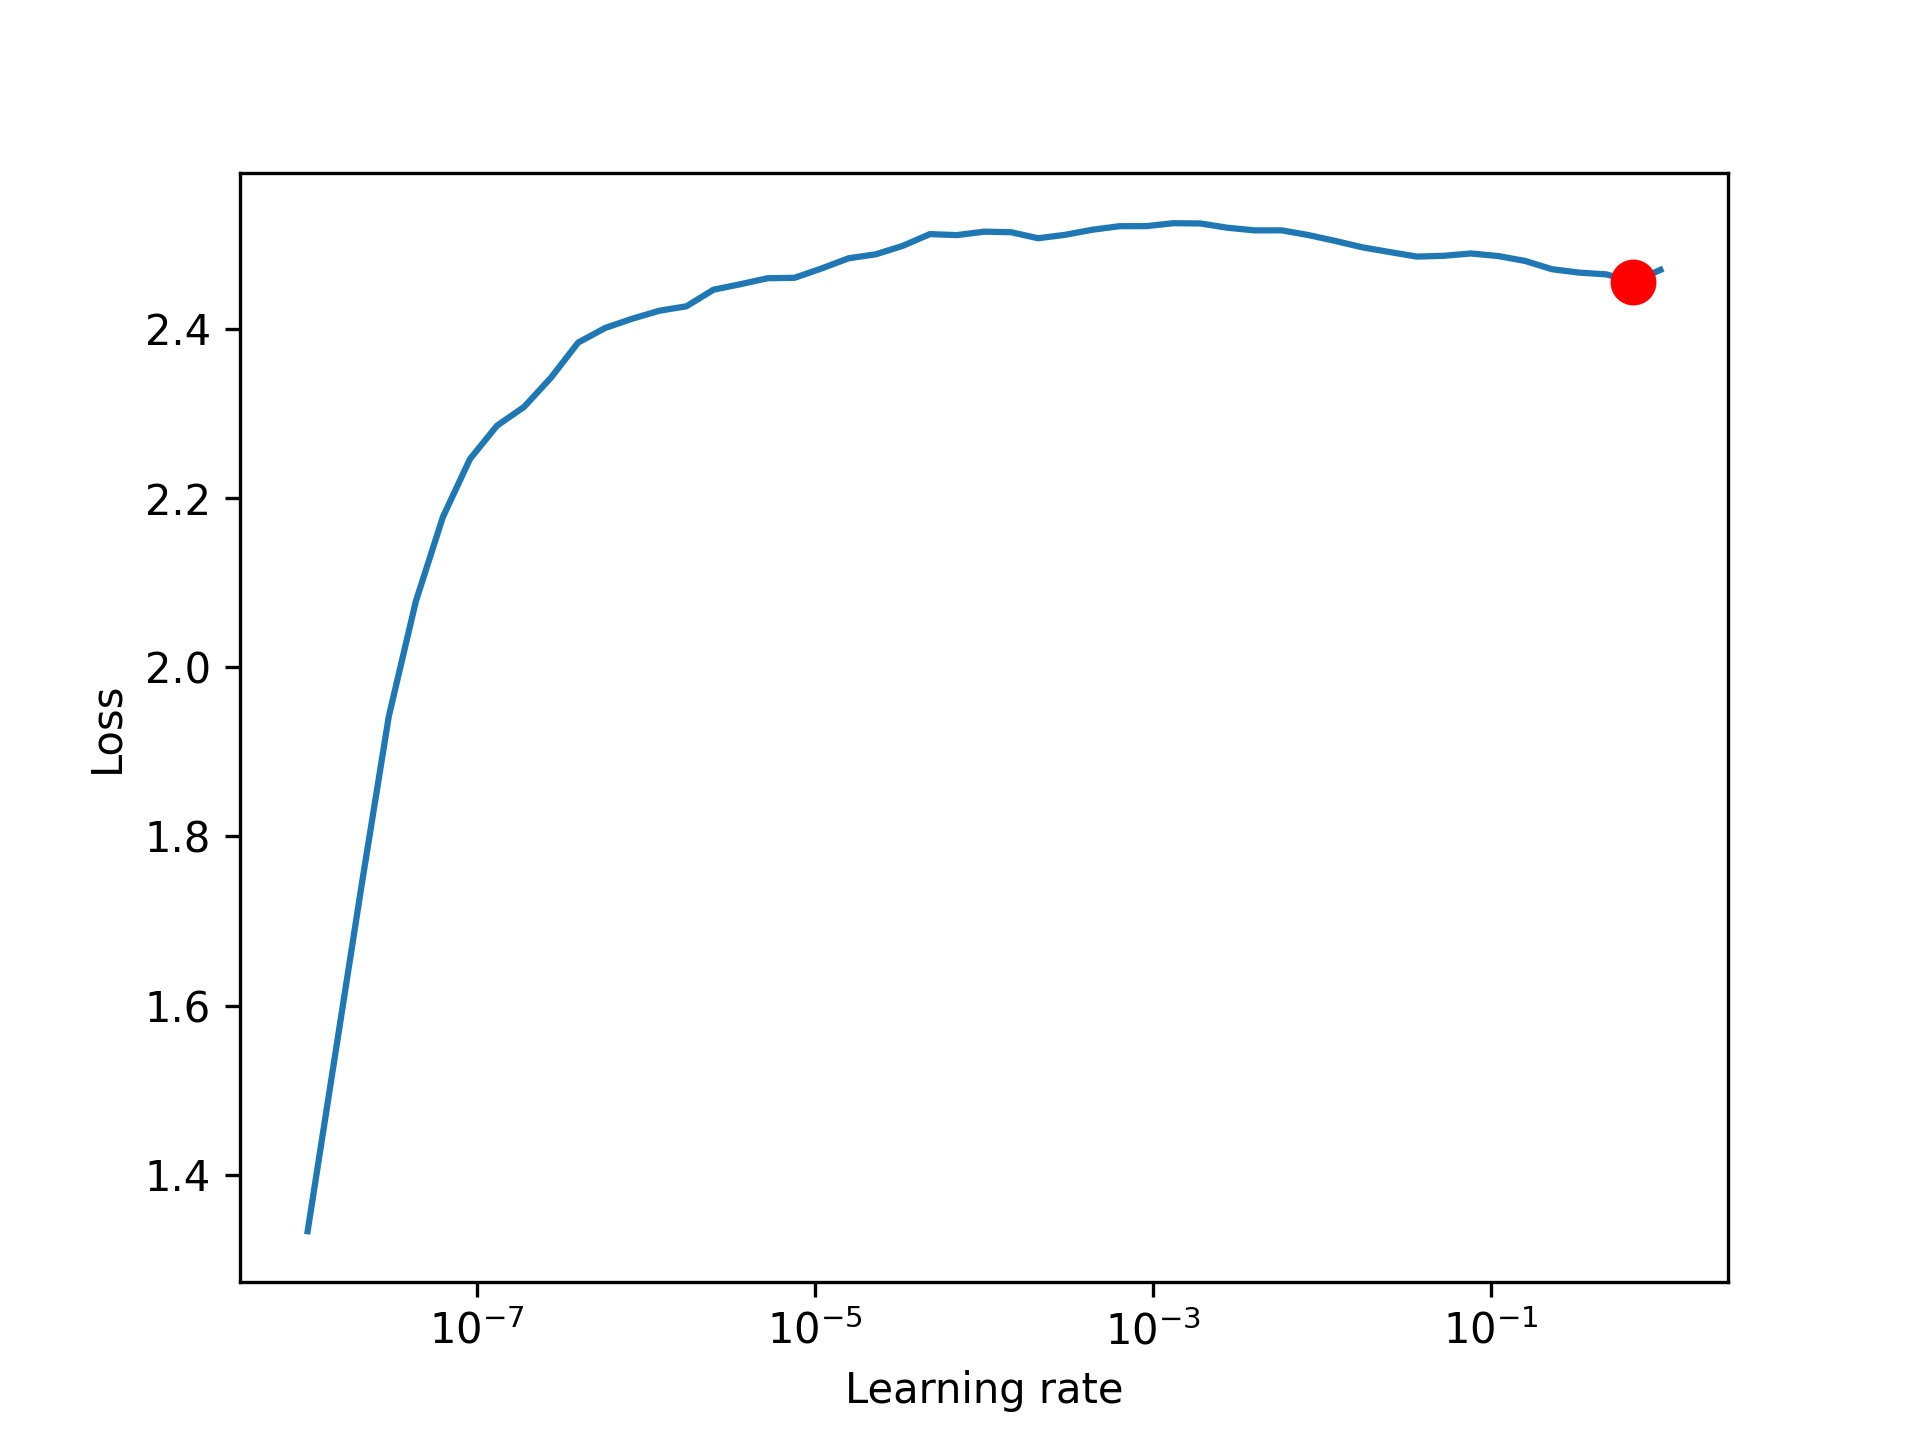
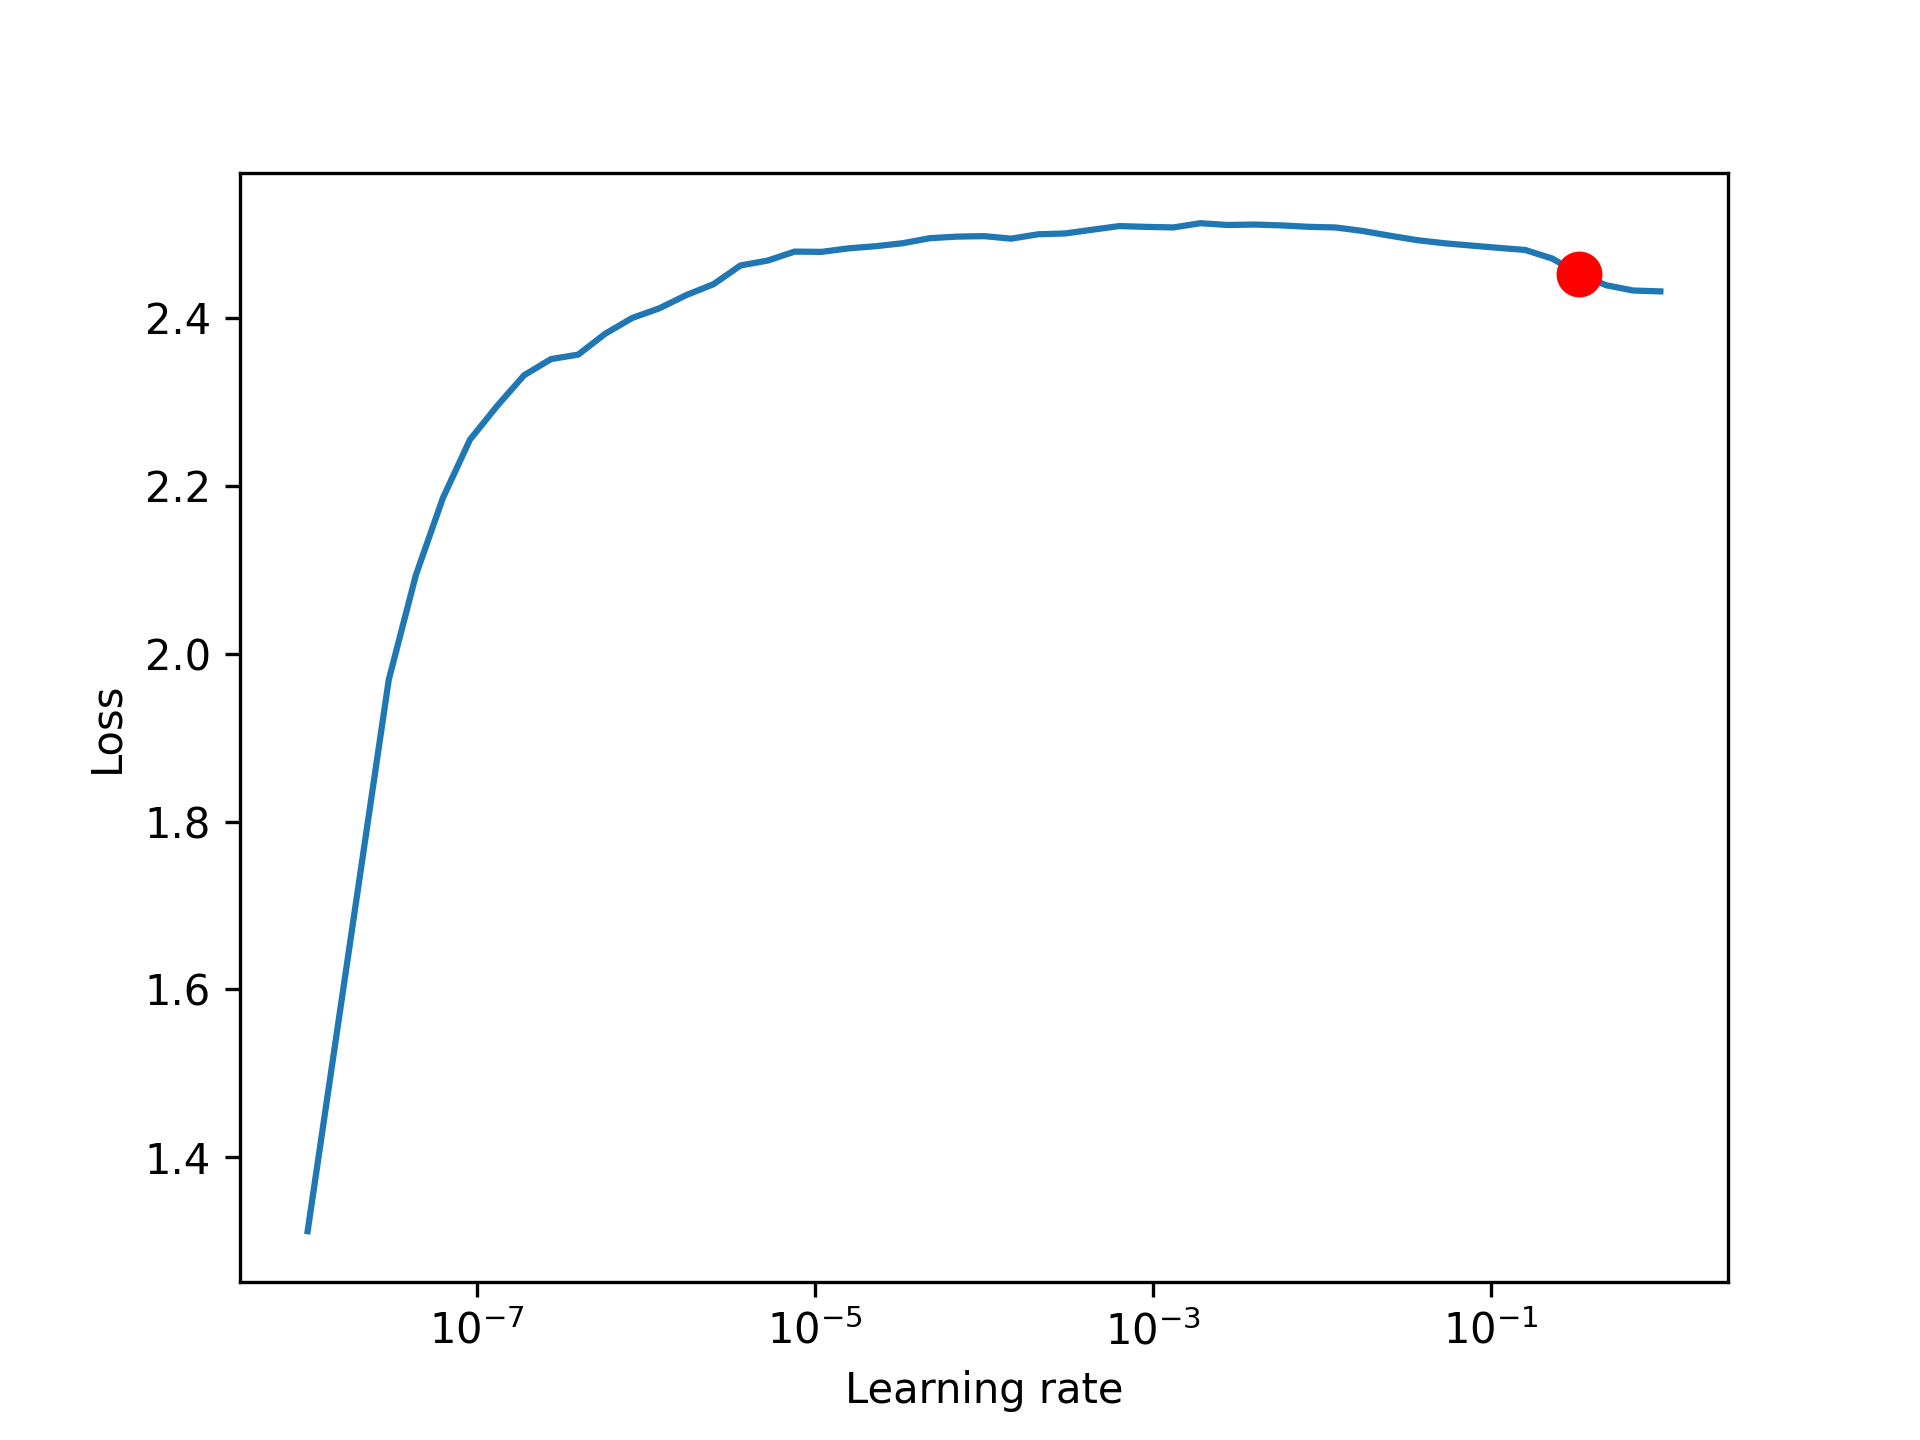
jiangwx finish slides

diff --git a/predict.py b/predict.py
@@ -2,20 +2,9 @@ from train import *
 
 parser = ArgumentParser()
 parser.add_argument('--dataset', default='cifar10', type=str, help='dataset')
-parser.add_argument('--model', default='/save_models/cifar10_resnet18best.pth', type=str, help='model weight file')
+parser.add_argument('--model', default='./save_models/epoch=31-step=8976.ckpt', type=str, help='model weight file')
 
 args = parser.parse_args()
-
-model = LitResnet()
-model.load_from_checkpoint(args.model)
-model.eval()
-
-trainer.test(model, dataloaders=cifar10_dm.test_dataloader())
-
-metrics = pd.read_csv(f"{trainer.logger.log_dir}/metrics.csv")
-del metrics["step"]
-metrics.set_index("epoch", inplace=True)
-display(metrics.dropna(axis=1, how="all").head())
-sns.relplot(data=metrics, kind="line")
+trainer.test(ckpt_path=args.model)
 
 print('Done')

diff --git a/slideshow/jiangwx.md b/slideshow/jiangwx.md
@@ -6,7 +6,6 @@ Jiang Wenxin
 <!-- ## PyTorch to PyTorch Lightning -->
 ![PyTorch to PyTorch Lightning](../img/pt_to_pl.png)
 
---------------------
 ```python
 callbacks = [
     ModelCheckpoint(monitor="val_acc", mode="max"),
@@ -22,7 +21,7 @@ trainer = Trainer(
 )
 ```
 --------------------
-##  Overview and Basics
+##  Datasets and models
 What we need know about training a model:
 * Dataset: [CIFAR-10](https://www.cs.toronto.edu/~kriz/cifar.html)
 * Model: ResNet18 or ResNet34 [TorchVision.Models](https://pytorch.org/vision/0.8/models.html)
@@ -33,15 +32,15 @@ What we need know about training a model:
 [^2]: Adam is one of the most popular optimizers in deep learning.
 
 --------------------
-## Transforms: Data Augmentation
+### Transforms: Data Augmentation
 Tools: random crop, random flip, random rotation, etc.
 Benefits of data augmentation:
-* Increase the size of the dataset -> Reduce <mark>overfitting</mark>
-* Improve generalization -> Improve the performance of the model
+* Increase the size of the dataset -> Reduce **overfitting**
+* Improve **generalization** -> Improve the performance of the model
 ![data_aug](../img/data_augmentation.png)
 
 --------------------
-## Transforms: Data Normalization and Resizing
+### Transforms: Data Normalization and Resizing
 Tools: Normalize, Resize, etc.
 Why data normalization?
 * Easier to converge
@@ -54,11 +53,28 @@ Why data resizing?
 [^3]: But we choose to change the input size of our model.
 
 --------------------
-## Before Training:
+### Transfer Learning
+* Use the pretrained model to initialize the weights of the model
+```python
+model = torchvision.models.resnet18(pretrained=True)
+```
+Useful when dataset is small.
+
+--------------------
+### Replicability and Determinism
+```python
+# for hardware
+torch.backends.cudnn.deterministic = True
+torch.backends.cudnn.benchmark = False
+# for numpy/pytorch package
+seed_everything(42)
+```
 ### Tricks: Learning Rate Finder
+But it sometimes doesn't work well. In our case:
 Not to pick the lowest loss, but in the middle of the sharpest downward slope (red point).
 ![FindLR](../img/pl_lr_finder.png)
 <!-- It determines a range of learning rates by gradually increasing the learning rate during training and observing the change in the loss function, thus helping us to better select the learning rate to improve the training effect and convergence speed of the model. -->
+
 
 --------------------
 ## [Effective Training Techniques](https://lightning.ai/docs/pytorch/stable/advanced/training_tricks.html)
@@ -77,9 +93,9 @@ trainer = Trainer(
 )
 ```
 --------------------
-- Manage Experiment: [WandB](https://wandb.ai/site)
-Weights and Biases
-<!-- todo add img -->
+- Early Stopping:
+Stop at the best epoch, not the last epoch.
+Avoid over-fitting.
 
 --------------------
 - Accumulate Gradients: 
@@ -90,29 +106,27 @@ Control batch size, improve the stability and generalisation of the model
 
 --------------------
 - Gradient Clipping: 
-Gradient clipping can be enabled to avoid exploding gradients. 
+Gradient clipping can be enabled to **avoid exploding gradients**. 
 
---------------------
 - Stochastic Weight Averaging: 
-Stochastic Weight Averaging (SWA) can make your models generalize better at virtually no additional cost. This can be used with both non-trained and trained models. The SWA procedure smooths the loss landscape thus making it harder to end up in a local minimum during optimization.
-<!-- 它可以帮助模型更好地泛化，同时不需要额外的训练成本。SWA 适用于非常大的模型和数据集，可以有效的避免模型陷入局部最小值，提高模型的泛化能力。
-
-具体来说，SWA 技术通过计算多个不同时间点的模型权重的平均值，来获得一个平均权重，从而获得一个更加平滑的损失函数，并提高模型的泛化能力。在训练过程中，SWA 技术会周期性地计算模型权重的平均值，并将这个平均权重用于后续的预测。
-
-SWA 技术的优点在于，它不需要增加额外的训练成本，因为权重平均可以在训练结束后进行计算，而不需要对模型进行重新训练。此外，SWA 技术可以有效地平滑损失函数，从而减少模型陷入局部最小值的风险，提高模型的泛化能力。 -->
-
-<!-- 需要注意的是，SWA 技术需要在训练结束后进行计算，因此可能需要一定的额外计算时间。同时，SWA 技术对于一些特定的模型和数据集可能效果并不明显。因此，在使用 SWA 技术时，需要根据具体的情况进行调整和优化。 -->
+Smooths the loss landscape thus making it harder to end up in a local minimum during optimization. Improves generalization.
 
 --------------------
+- Manage Experiment: Weights and Biases: [WandB](https://wandb.ai/site)
 
+Before training:
+![WandB_login](../img/wandb_login.png)
+After training:
+![WandB_summary](../img/wandb_summary.png)
+Dashboard:
+![WandB_dashboard](../img/wandb_dashboard.png)
+Or more commonly used: TensorBoard
 
+--------------------
 ## Results
-<!-- todo img -->
-
-
-
---------------------
-
+![train_loss](../img/cifar10train_loss.png)
+![val_loss](../img/cifar10val_loss.png)
+![test_acc](../img/cifar10test_acc.png)
 
 --------------------
 
